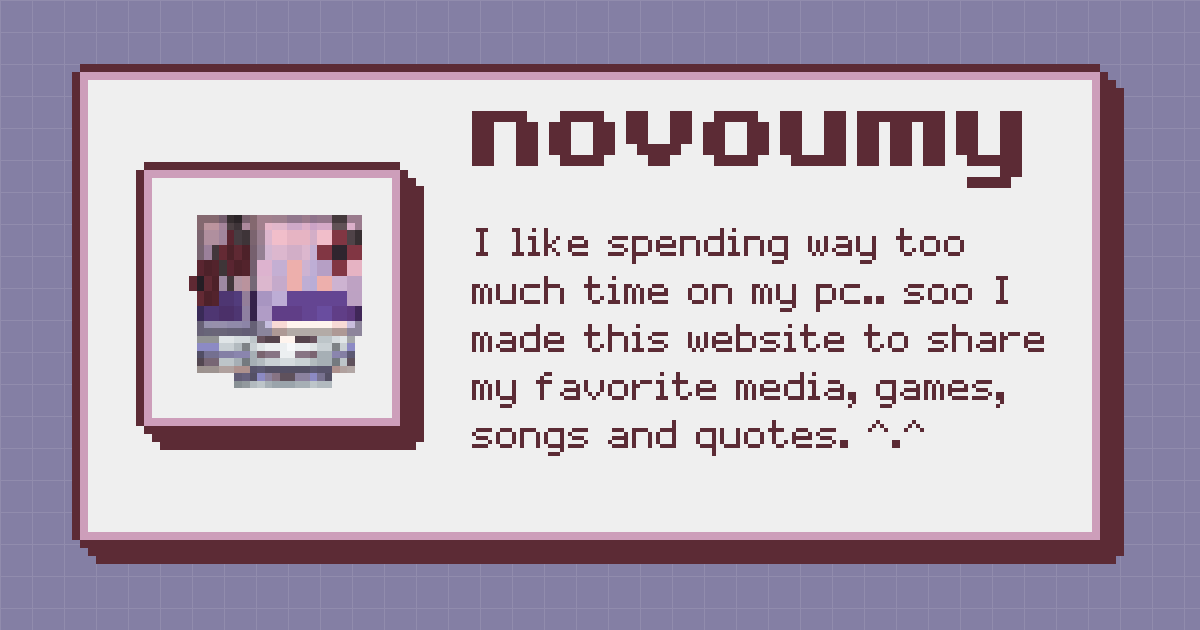
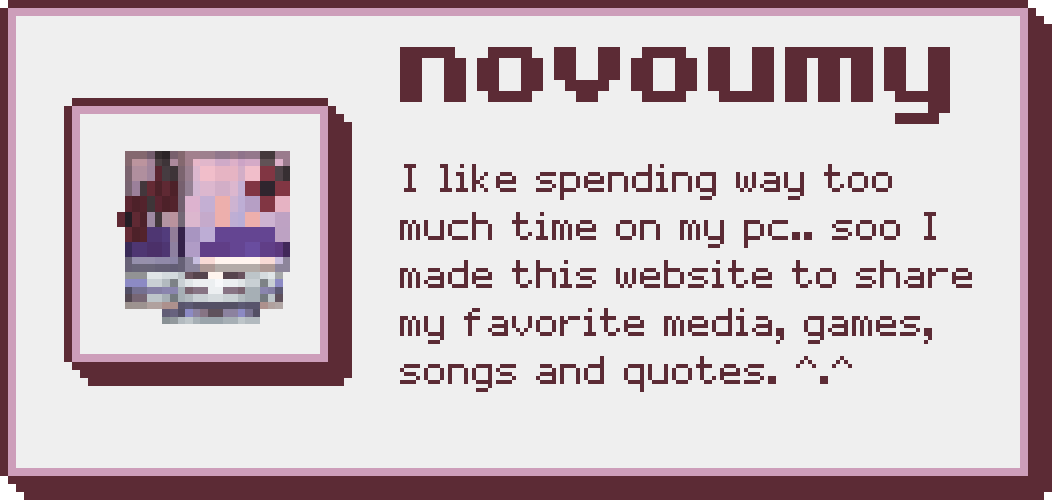
sdsd

diff --git a/index.html b/index.html
@@ -7,26 +7,8 @@
     <link rel="preconnect" href="https://fonts.googleapis.com" />
     <link rel="preconnect" href="https://fonts.gstatic.com" crossorigin />
     <link href="https://fonts.googleapis.com/css2?family=Press+Start+2P&family=VT323&display=swap" rel="stylesheet" />
-    <meta name="description" content="I like spending way too much time on my pc.. soo I made this website to share my favorite media, games, songs and quotes. ^.^" />
-    <meta name="theme-color" content="#5C2B35" />
-
-    <!-- Open Graph (Discord, etc.) -->
-    <meta property="og:type" content="website" />
-    <meta property="og:url" content="https://novoumy.com/" />
-    <meta property="og:site_name" content="novoumy" />
-    <meta property="og:title" content="novoumy" />
-    <meta property="og:description" content="I like spending way too much time on my pc.. soo I made this website to share my favorite media, games, songs and quotes. ^.^" />
     <meta property="og:image" content="https://novoumy.com/og-image.png" />
-    <meta property="og:image:type" content="image/png" />
-    <meta property="og:image:width" content="1200" />
-    <meta property="og:image:height" content="630" />
-    <meta property="og:image:alt" content="novoumy - pixel avatar and a short bio on a retro window" />
-
-    <!-- Twitter card (also makes Discord show the large image) -->
     <meta name="twitter:card" content="summary_large_image" />
-    <meta name="twitter:title" content="novoumy" />
-    <meta name="twitter:description" content="I like spending way too much time on my pc.. soo I made this website to share my favorite media, games, songs and quotes. ^.^" />
-    <meta name="twitter:image" content="https://novoumy.com/og-image.png" />
     <title>novoumy</title>
   </head>
   <body>
